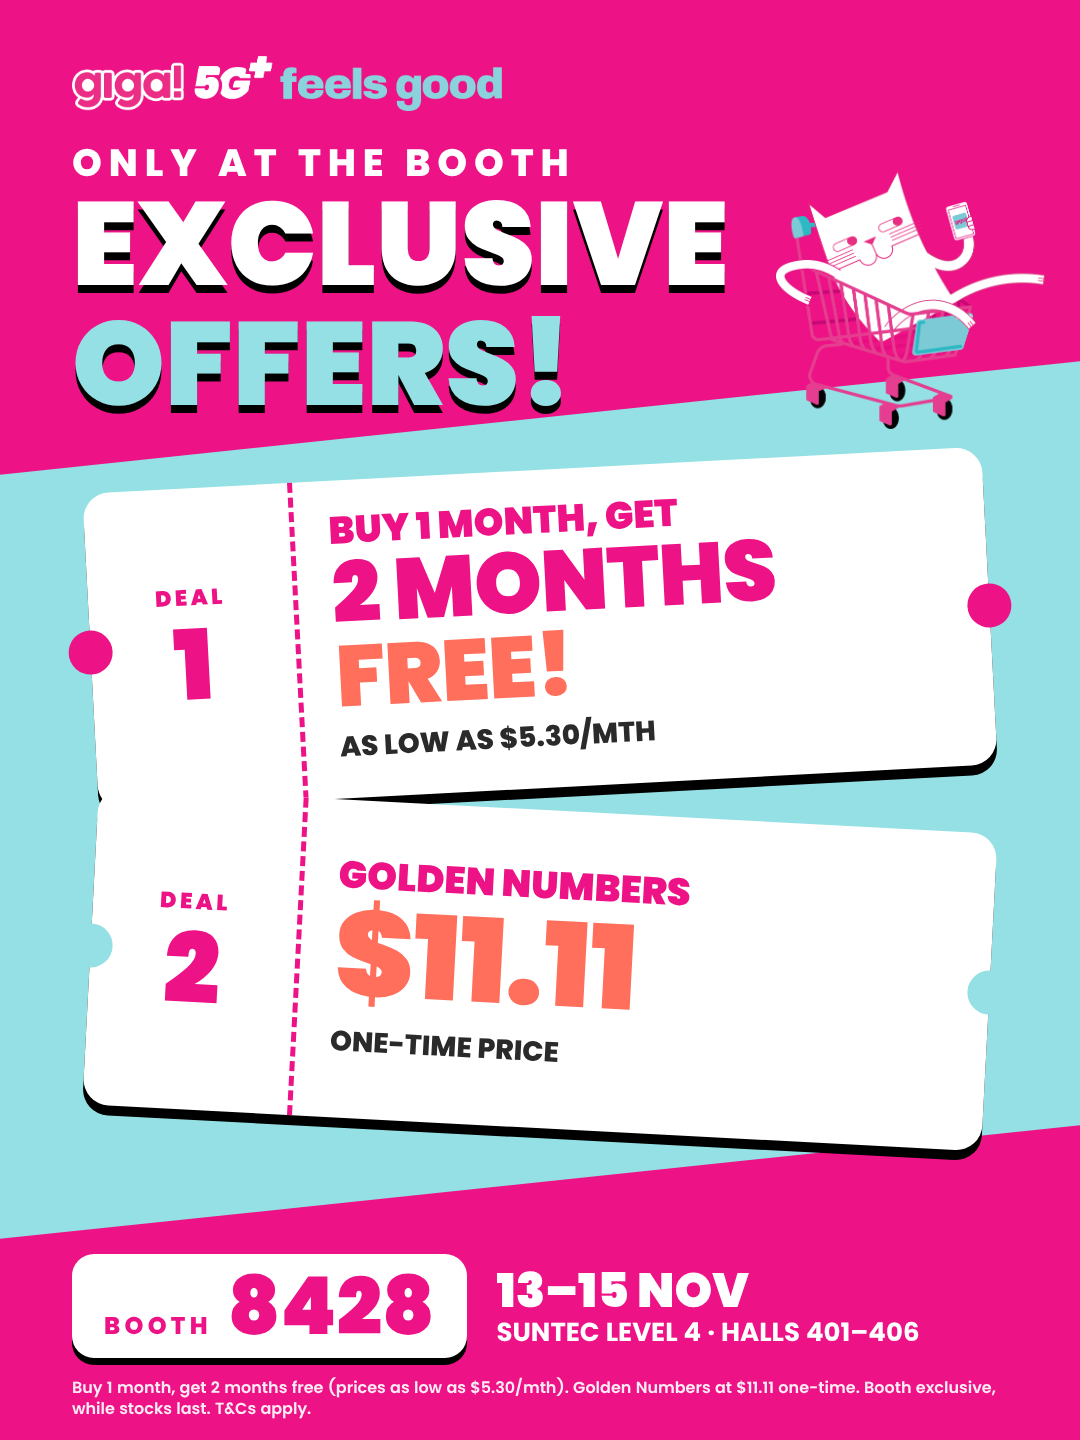
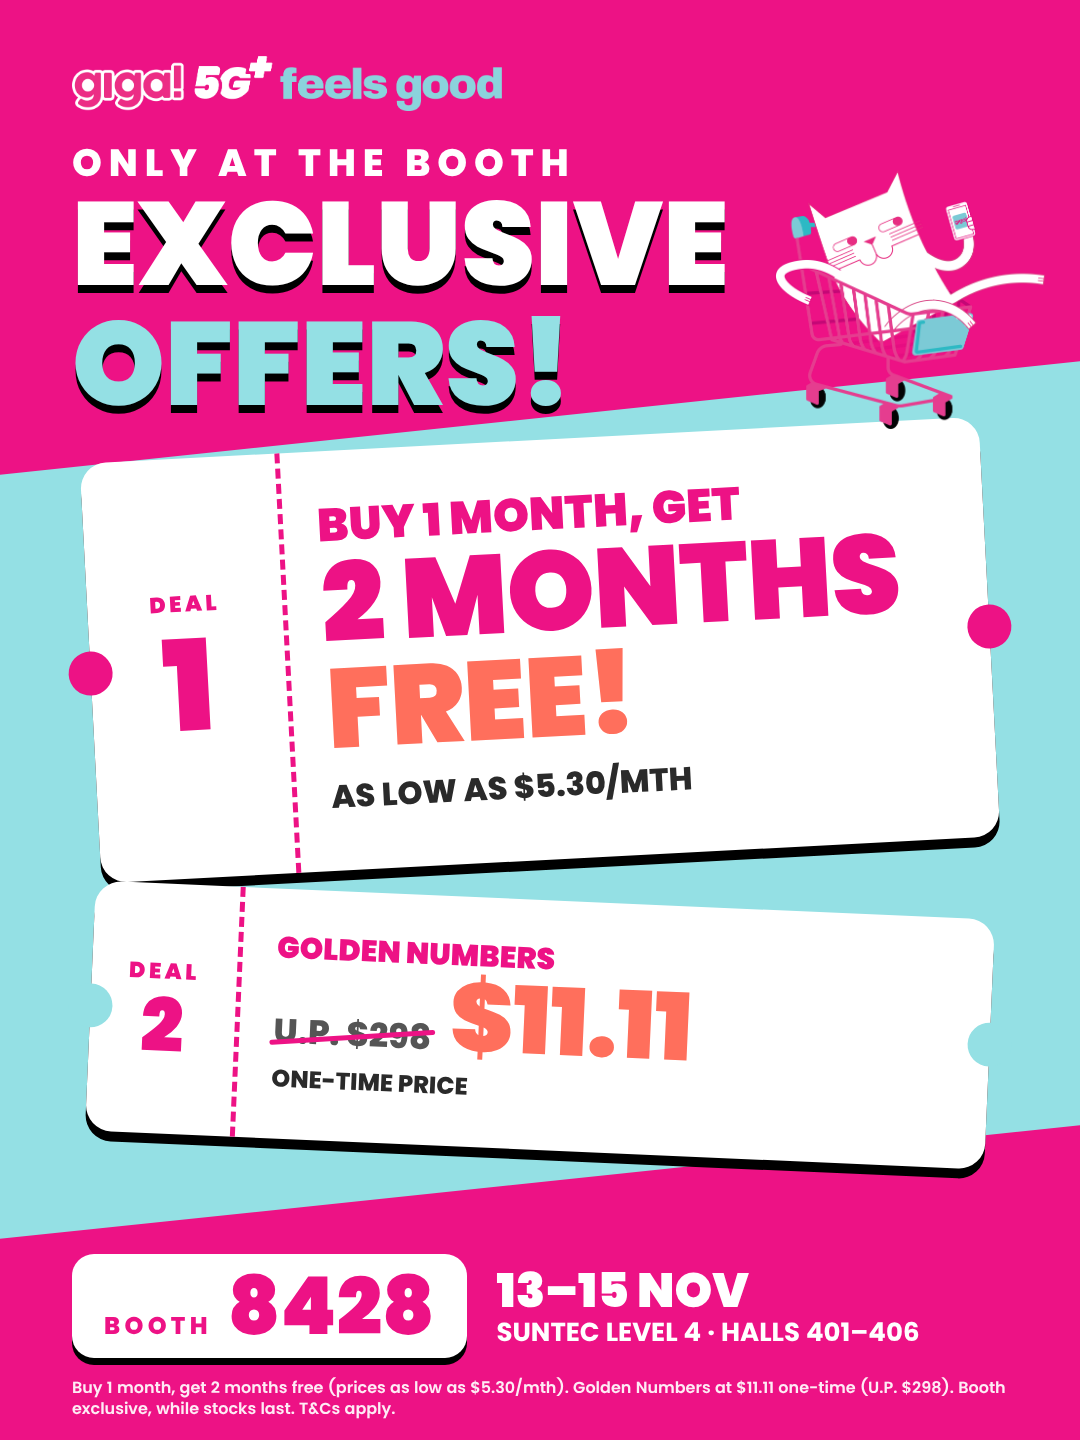
Post 4: deal 1 is the hero; golden numbers show U.P. $298 struck through then $11.11
Claude-Session: https://claude.ai/code/session_01QpHBCYvf2HgUsT79rZy6ps

diff --git a/giga-tech-show/post-4-exclusive-offers.html b/giga-tech-show/post-4-exclusive-offers.html
@@ -11,13 +11,18 @@
 .ticket .stub small{font-size:22px;letter-spacing:.16em}
 .ticket .stub b{font-size:100px;line-height:1}
 .ticket .main{flex:1;padding:26px 34px;display:flex;flex-direction:column;justify-content:center}
-.ticket:before,.ticket:after{content:"";position:absolute;width:44px;height:44px;border-radius:50%;background:var(--bg-notch,var(--pink));top:137px}
+.ticket:before,.ticket:after{content:"";position:absolute;width:44px;height:44px;border-radius:50%;background:var(--bg-notch,var(--pink));top:calc(50% - 22px)}
 .ticket:before{left:-22px}.ticket:after{right:-22px}
-.t1{left:90px;top:470px;transform:rotate(-3deg)}
-.t2{left:90px;top:810px;transform:rotate(3deg)}
-.k1{font-weight:900;font-size:38px;line-height:1.05}
-.k2{font-weight:900;font-size:86px;line-height:.98;letter-spacing:-.01em}
-.k3{font-weight:800;font-size:28px;color:#2a2a2a;margin-top:8px}
+.t1{left:90px;top:440px;height:420px;transform:rotate(-3deg)}
+.t1 .stub{width:200px}.t1 .stub b{font-size:130px}
+.t2{left:90px;top:900px;height:250px;transform:rotate(2.5deg)}
+.t2 .stub{width:150px}.t2 .stub b{font-size:76px}
+.up{display:inline-block;position:relative;font-weight:800;font-size:34px;color:#555;margin-right:18px}
+.up:after{content:"";position:absolute;left:-4px;right:-4px;top:52%;height:5px;background:var(--pink);transform:rotate(-6deg);border-radius:3px}
+.k1{font-weight:900;font-size:46px;line-height:1.05}
+.k2{font-weight:900;font-size:112px;line-height:.95;letter-spacing:-.01em}
+.k3{font-weight:800;font-size:32px;color:#2a2a2a;margin-top:10px}
+.t2 .k1{font-size:30px}.t2 .k3{font-size:24px;margin-top:4px}
 </style></head>
 <body><div class="post" id="post" style="background:var(--pink)">
 
@@ -26,9 +31,9 @@
 <div class="pre4">ONLY AT THE BOOTH</div>
 <h1 class="h4"><span>Exclusive</span><span><em>offers!</em></span></h1>
 <img class="gino" src="assets/gino-cart.png" style="left:775px;top:170px;width:270px;z-index:4" alt="Gino with shopping cart">
-<div class="ticket t1"><div class="stub"><small>DEAL</small><b>1</b></div><div class="main"><div class="k1">BUY 1 MONTH, GET</div><div class="k2">2 MONTHS <span style="color:var(--coral)">FREE!</span></div><div class="k3">AS LOW AS $5.30/MTH</div></div></div>
-<div class="ticket t2" style="--bg-notch:var(--teal)"><div class="stub"><small>DEAL</small><b>2</b></div><div class="main"><div class="k1">GOLDEN NUMBERS</div><div class="k2" style="font-size:120px;color:var(--coral)">$11.11</div><div class="k3">ONE-TIME PRICE</div></div></div>
+<div class="ticket t1"><div class="stub"><small>DEAL</small><b>1</b></div><div class="main"><div class="k1">BUY 1 MONTH, GET</div><div class="k2">2 MONTHS<br><span style="color:var(--coral)">FREE!</span></div><div class="k3">AS LOW AS $5.30/MTH</div></div></div>
+<div class="ticket t2" style="--bg-notch:var(--teal)"><div class="stub"><small>DEAL</small><b>2</b></div><div class="main"><div class="k1">GOLDEN NUMBERS</div><div><span class="up">U.P. $298</span><span class="k2" style="font-size:96px;color:var(--coral)">$11.11</span></div><div class="k3">ONE-TIME PRICE</div></div></div>
 <div class="strip" style="top:1254px;left:72px"><div class="booth"><small>BOOTH</small><strong>8428</strong></div>
 <div class="when" style="color:var(--white)">13–15 Nov<span>Suntec Level 4 · Halls 401–406</span></div></div>
-<div class="fine" style="color:rgba(255,255,255,.92)">Buy 1 month, get 2 months free (prices as low as $5.30/mth). Golden Numbers at $11.11 one-time. Booth exclusive, while stocks last. T&amp;Cs apply.</div>
+<div class="fine" style="color:rgba(255,255,255,.92)">Buy 1 month, get 2 months free (prices as low as $5.30/mth). Golden Numbers at $11.11 one-time (U.P. $298). Booth exclusive, while stocks last. T&amp;Cs apply.</div>
 </div></body></html>

diff --git a/giga-tech-show/tools/build_posts_v2.py b/giga-tech-show/tools/build_posts_v2.py
@@ -79,13 +79,18 @@ css4='''
 .ticket .stub small{font-size:22px;letter-spacing:.16em}
 .ticket .stub b{font-size:100px;line-height:1}
 .ticket .main{flex:1;padding:26px 34px;display:flex;flex-direction:column;justify-content:center}
-.ticket:before,.ticket:after{content:"";position:absolute;width:44px;height:44px;border-radius:50%;background:var(--bg-notch,var(--pink));top:137px}
+.ticket:before,.ticket:after{content:"";position:absolute;width:44px;height:44px;border-radius:50%;background:var(--bg-notch,var(--pink));top:calc(50% - 22px)}
 .ticket:before{left:-22px}.ticket:after{right:-22px}
-.t1{left:90px;top:470px;transform:rotate(-3deg)}
-.t2{left:90px;top:810px;transform:rotate(3deg)}
-.k1{font-weight:900;font-size:38px;line-height:1.05}
-.k2{font-weight:900;font-size:86px;line-height:.98;letter-spacing:-.01em}
-.k3{font-weight:800;font-size:28px;color:#2a2a2a;margin-top:8px}
+.t1{left:90px;top:440px;height:420px;transform:rotate(-3deg)}
+.t1 .stub{width:200px}.t1 .stub b{font-size:130px}
+.t2{left:90px;top:900px;height:250px;transform:rotate(2.5deg)}
+.t2 .stub{width:150px}.t2 .stub b{font-size:76px}
+.up{display:inline-block;position:relative;font-weight:800;font-size:34px;color:#555;margin-right:18px}
+.up:after{content:"";position:absolute;left:-4px;right:-4px;top:52%;height:5px;background:var(--pink);transform:rotate(-6deg);border-radius:3px}
+.k1{font-weight:900;font-size:46px;line-height:1.05}
+.k2{font-weight:900;font-size:112px;line-height:.95;letter-spacing:-.01em}
+.k3{font-weight:800;font-size:32px;color:#2a2a2a;margin-top:10px}
+.t2 .k1{font-size:30px}.t2 .k3{font-size:24px;margin-top:4px}
 '''
 b4=f'''
 <div class="stripe"></div>
@@ -93,10 +98,10 @@ b4=f'''
 <div class="pre4">ONLY AT THE BOOTH</div>
 <h1 class="h4"><span>Exclusive</span><span><em>offers!</em></span></h1>
 <img class="gino" src="assets/gino-cart.png" style="left:775px;top:170px;width:270px;z-index:4" alt="Gino with shopping cart">
-<div class="ticket t1"><div class="stub"><small>DEAL</small><b>1</b></div><div class="main"><div class="k1">BUY 1 MONTH, GET</div><div class="k2">2 MONTHS <span style="color:var(--coral)">FREE!</span></div><div class="k3">AS LOW AS $5.30/MTH</div></div></div>
-<div class="ticket t2" style="--bg-notch:var(--teal)"><div class="stub"><small>DEAL</small><b>2</b></div><div class="main"><div class="k1">GOLDEN NUMBERS</div><div class="k2" style="font-size:120px;color:var(--coral)">$11.11</div><div class="k3">ONE-TIME PRICE</div></div></div>
+<div class="ticket t1"><div class="stub"><small>DEAL</small><b>1</b></div><div class="main"><div class="k1">BUY 1 MONTH, GET</div><div class="k2">2 MONTHS<br><span style="color:var(--coral)">FREE!</span></div><div class="k3">AS LOW AS $5.30/MTH</div></div></div>
+<div class="ticket t2" style="--bg-notch:var(--teal)"><div class="stub"><small>DEAL</small><b>2</b></div><div class="main"><div class="k1">GOLDEN NUMBERS</div><div><span class="up">U.P. $298</span><span class="k2" style="font-size:96px;color:var(--coral)">$11.11</span></div><div class="k3">ONE-TIME PRICE</div></div></div>
 {strip('pink')}
-{fine('Buy 1 month, get 2 months free (prices as low as $5.30/mth). Golden Numbers at $11.11 one-time. Booth exclusive, while stocks last. T&amp;Cs apply.')}'''
+{fine('Buy 1 month, get 2 months free (prices as low as $5.30/mth). Golden Numbers at $11.11 one-time (U.P. $298). Booth exclusive, while stocks last. T&amp;Cs apply.')}'''
 OUT['post-4-exclusive-offers']=HEAD.format(t='Post 4: Exclusive offers',css=css4,bg='background:var(--pink)',body=b4)
 
 # ---------------- 5: GOLDEN NUMBERS (giant price over number pattern) ----------------
